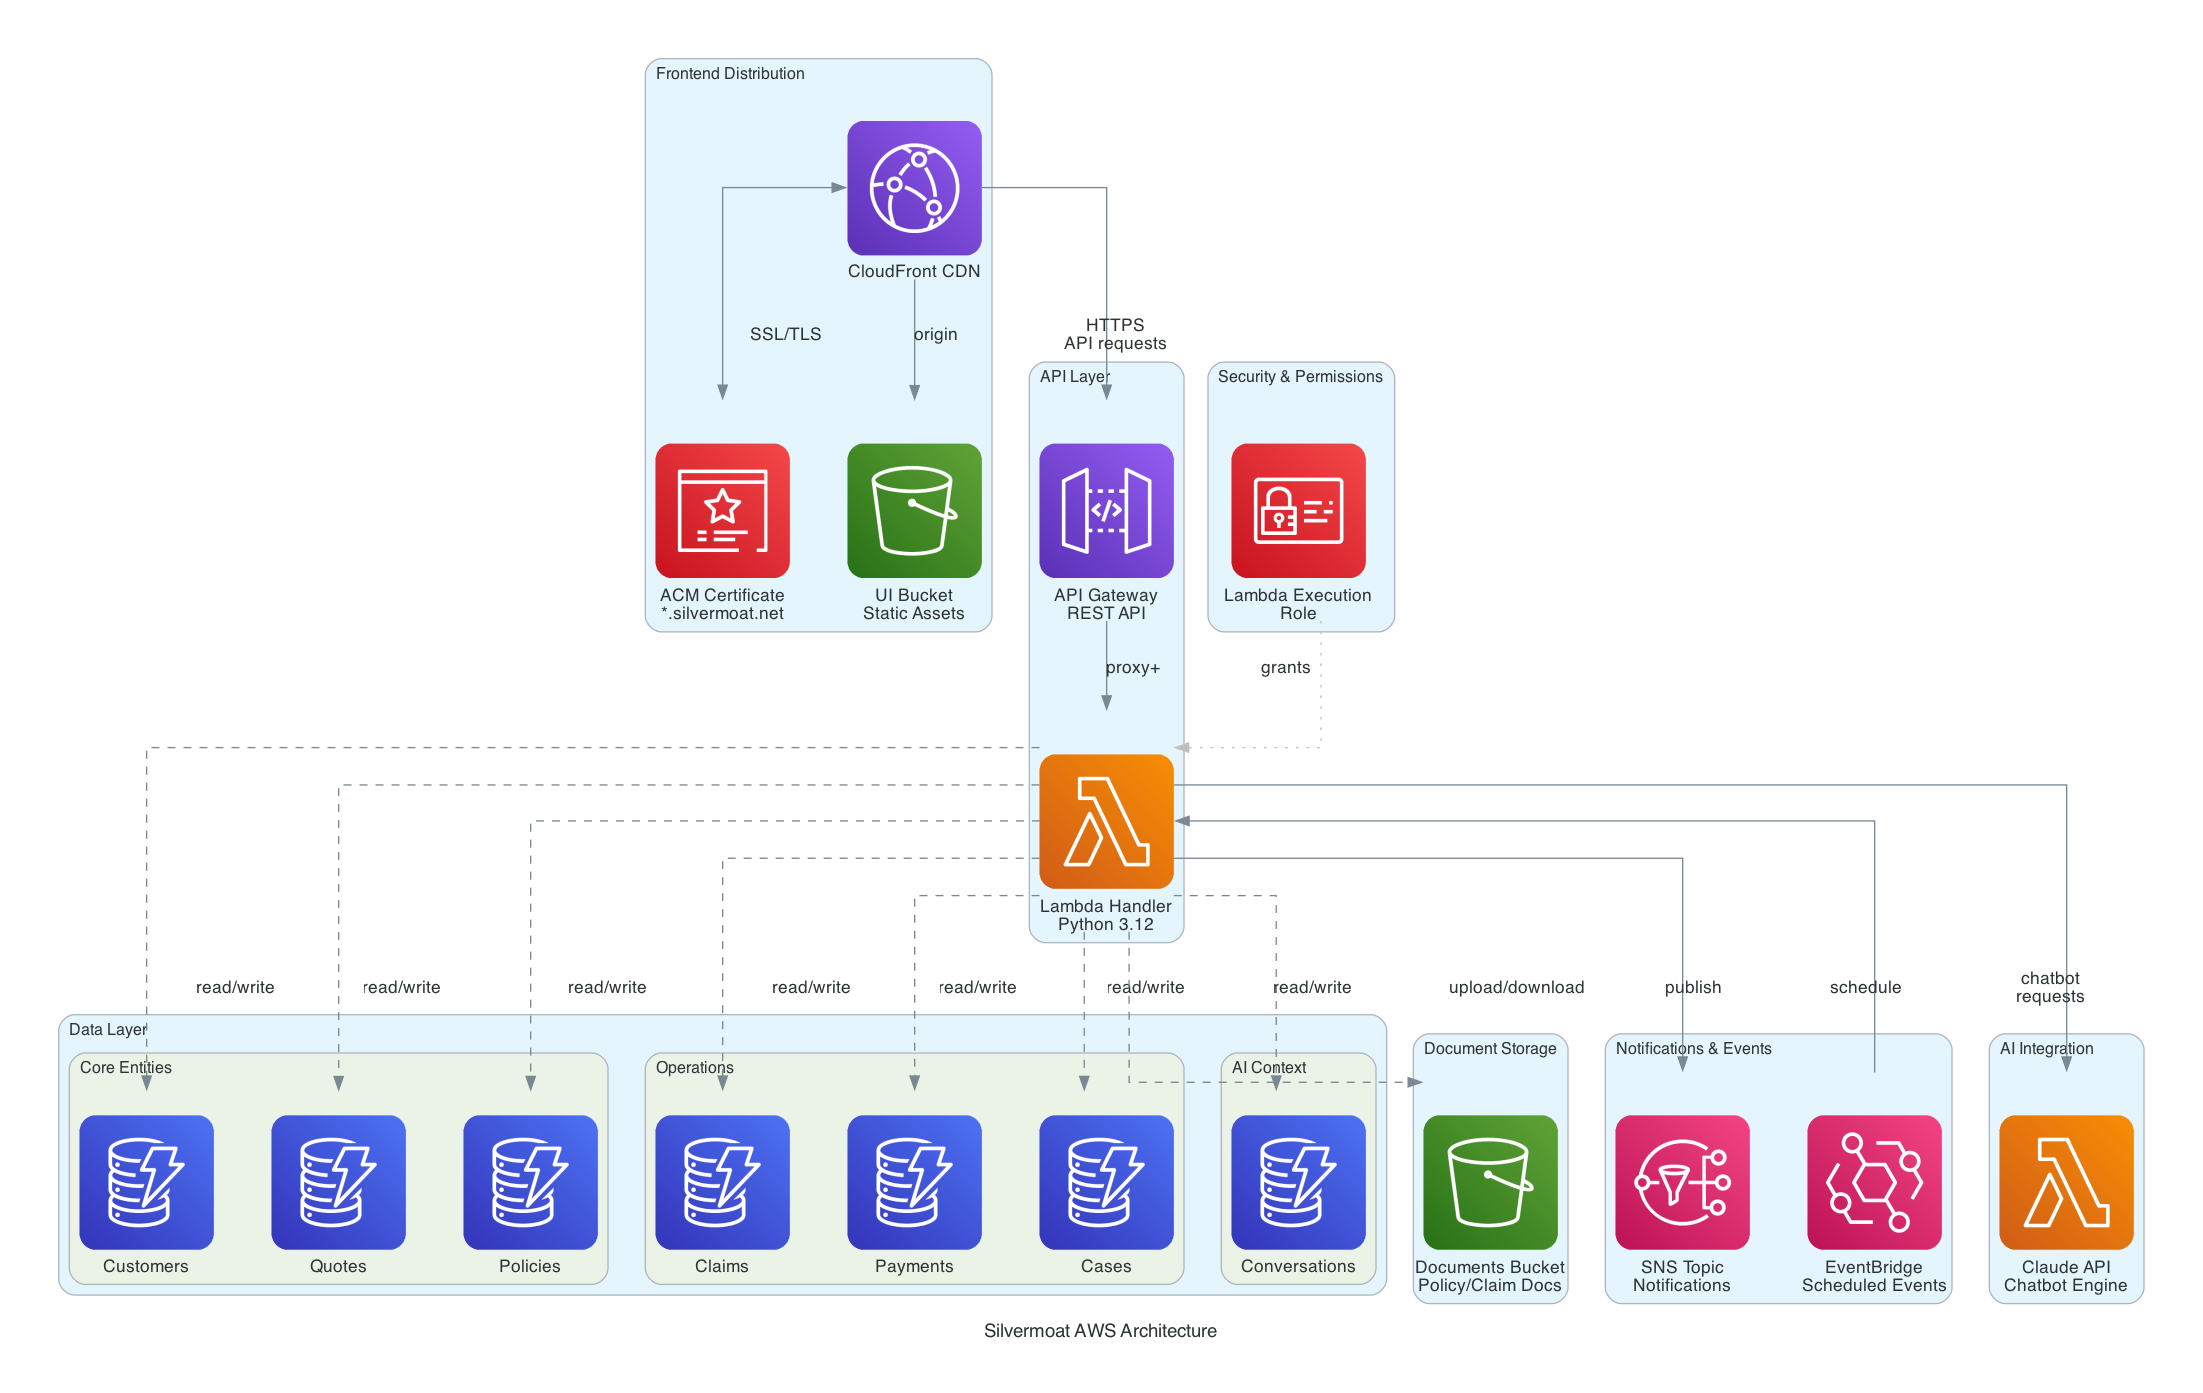
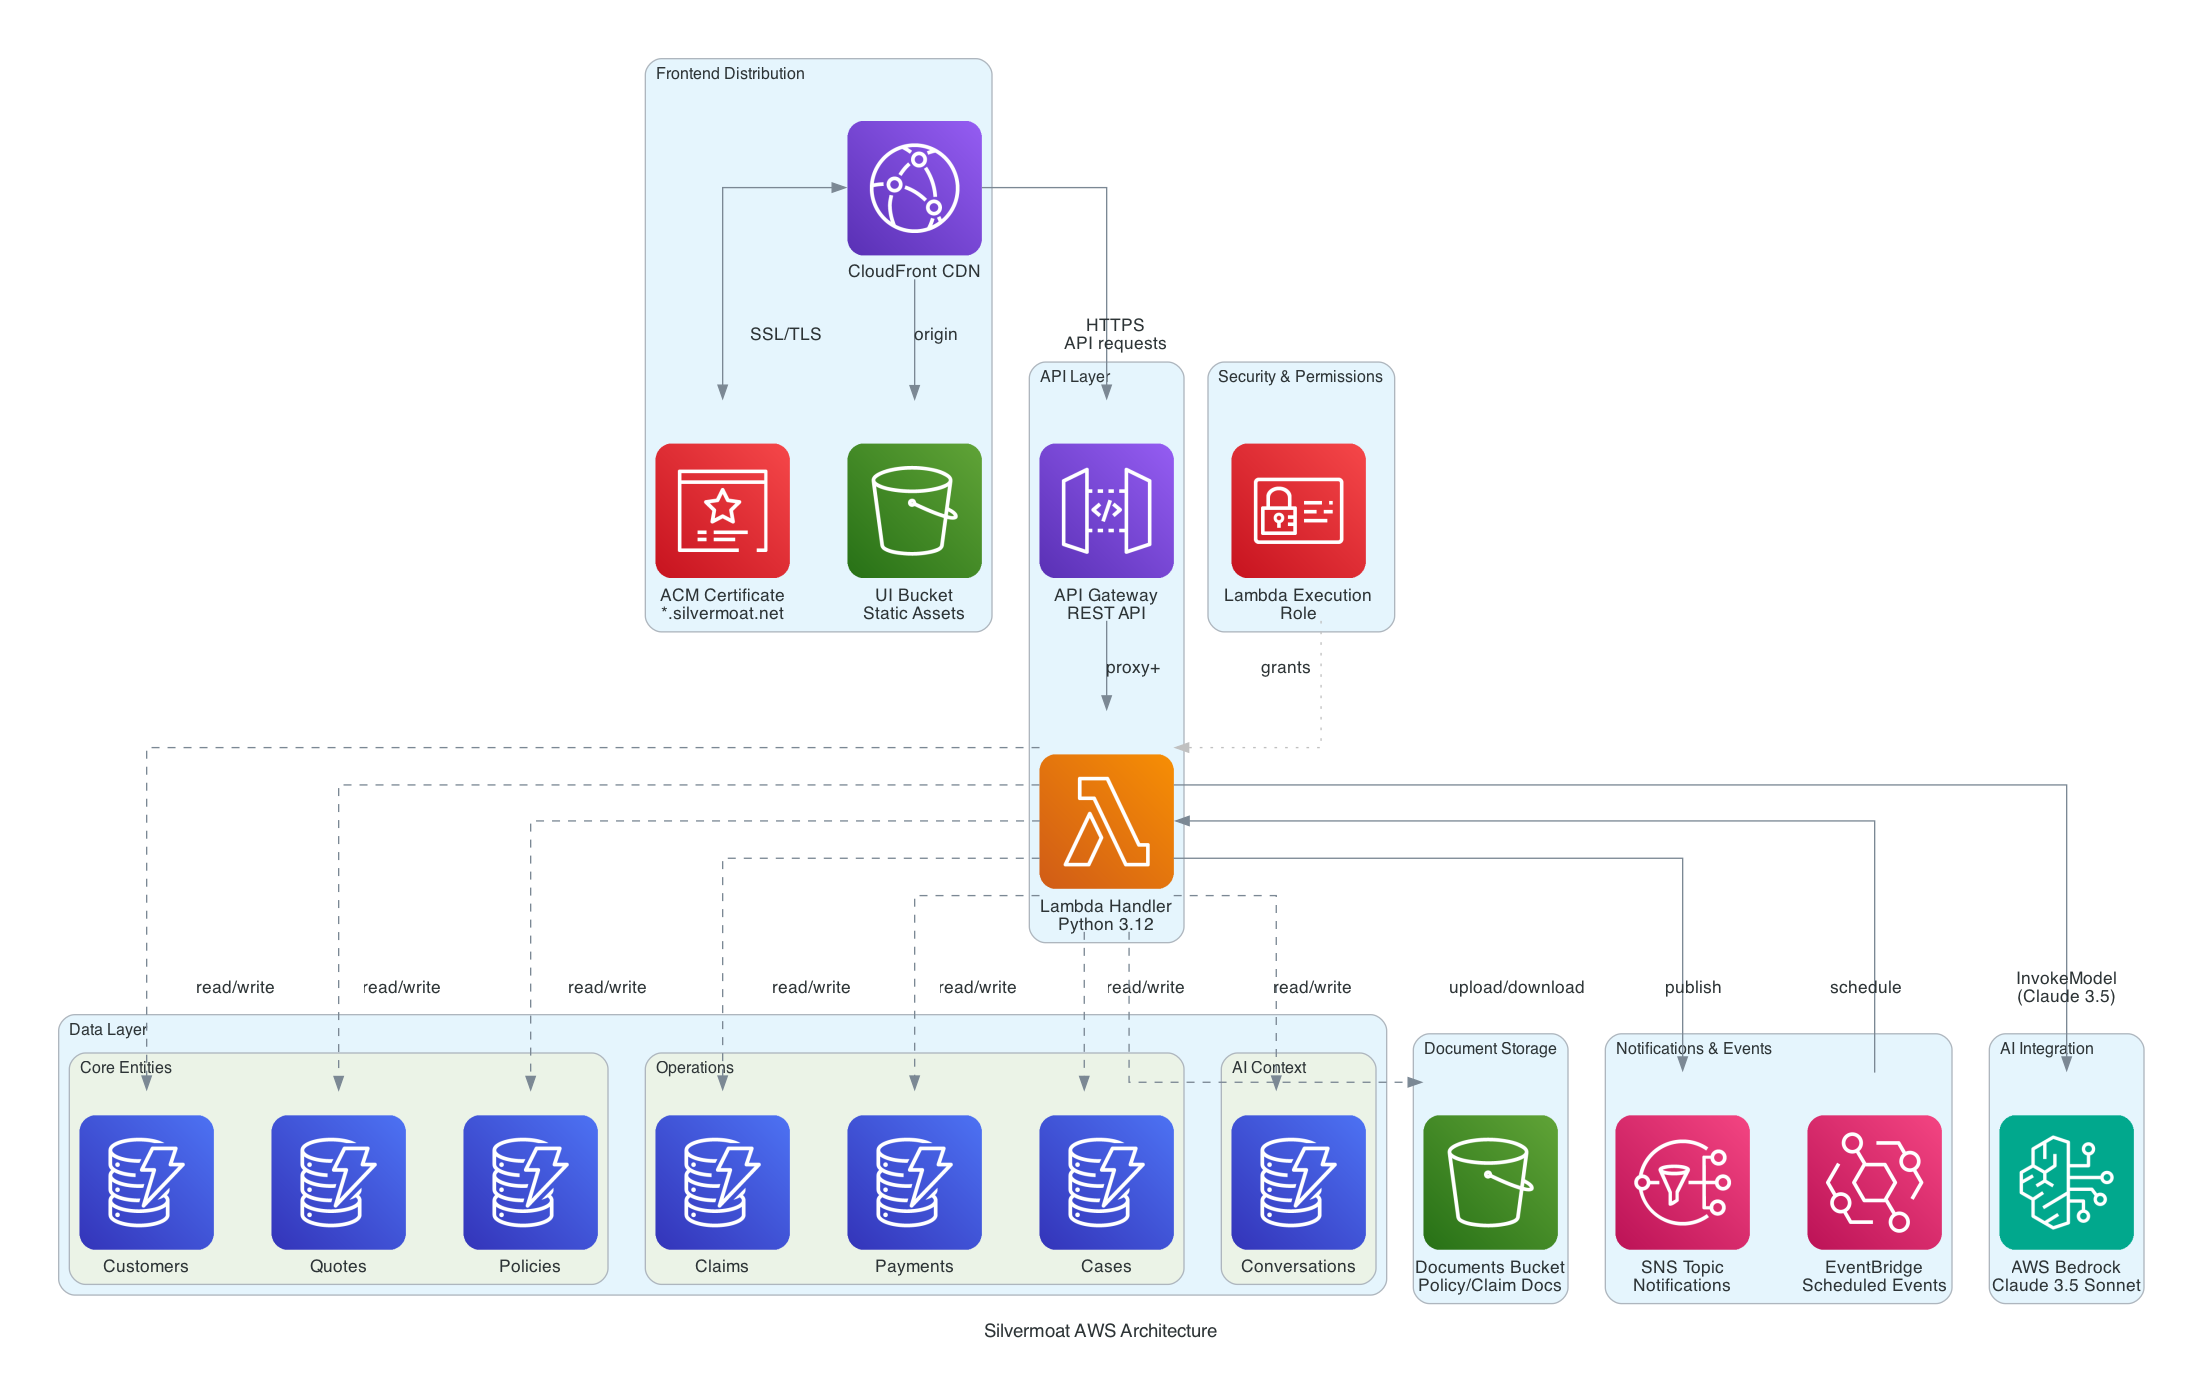
Fix architecture diagram: Replace Claude API with AWS Bedrock
## Issue
The architecture diagram incorrectly showed "Claude API (Lambda)" as the AI service.

## Fix
Updated to show **AWS Bedrock** with Claude 3.5 Sonnet model, which is what the infrastructure actually uses.

## Changes
- **`scripts/generate-architecture-diagram.py`**:
  - Added `from diagrams.aws.ml import Bedrock`
  - Replaced Lambda "Claude API" with Bedrock service icon
  - Updated label: "InvokeModel (Claude 3.5)"

- **Regenerated diagrams**:
  - `docs/architecture.png`
  - `ui/public/architecture.png`

## Verification
Confirmed from infrastructure code:
- `cdk/stacks/compute_stack.py`: Uses `bedrock:InvokeModel` permission
- `lambda/mvp_service/chatbot.py`: Uses `boto3.client("bedrock-runtime")`
- Model: `anthropic.claude-3-5-sonnet-20240620-v1:0`

🤖 Generated with [Claude Code](https://claude.com/claude-code)

Changed region(s): [[0.8951, 0.8026, 0.9877, 0.9261], [0.926, 0.6791, 0.9569, 0.7408]]

diff --git a/scripts/generate-architecture-diagram.py b/scripts/generate-architecture-diagram.py
@@ -24,6 +24,7 @@ from diagrams.aws.database import Dynamodb
 from diagrams.aws.storage import S3
 from diagrams.aws.integration import SNS, Eventbridge
 from diagrams.aws.security import CertificateManager, IAM
+from diagrams.aws.ml import Bedrock
 
 def generate_architecture_diagram():
     """Generate the Silvermoat AWS architecture diagram."""
@@ -86,9 +87,9 @@ def generate_architecture_diagram():
         with Cluster("Security & Permissions"):
             lambda_role = IAM("Lambda Execution\nRole")
 
-        # External Integration
+        # AI Integration
         with Cluster("AI Integration"):
-            claude_api = Lambda("Claude API\nChatbot Engine")
+            bedrock = Bedrock("AWS Bedrock\nClaude 3.5 Sonnet")
 
         # Frontend to API flow
         cloudfront >> Edge(label="HTTPS\nAPI requests") >> apigw
@@ -114,8 +115,8 @@ def generate_architecture_diagram():
         # IAM permissions
         lambda_role >> Edge(label="grants", style="dotted", color="gray") >> lambda_fn
 
-        # Claude API integration
-        lambda_fn >> Edge(label="chatbot\nrequests") >> claude_api
+        # Bedrock integration for AI chatbot
+        lambda_fn >> Edge(label="InvokeModel\n(Claude 3.5)") >> bedrock
 
 if __name__ == "__main__":
     print("Generating Silvermoat architecture diagram...")
